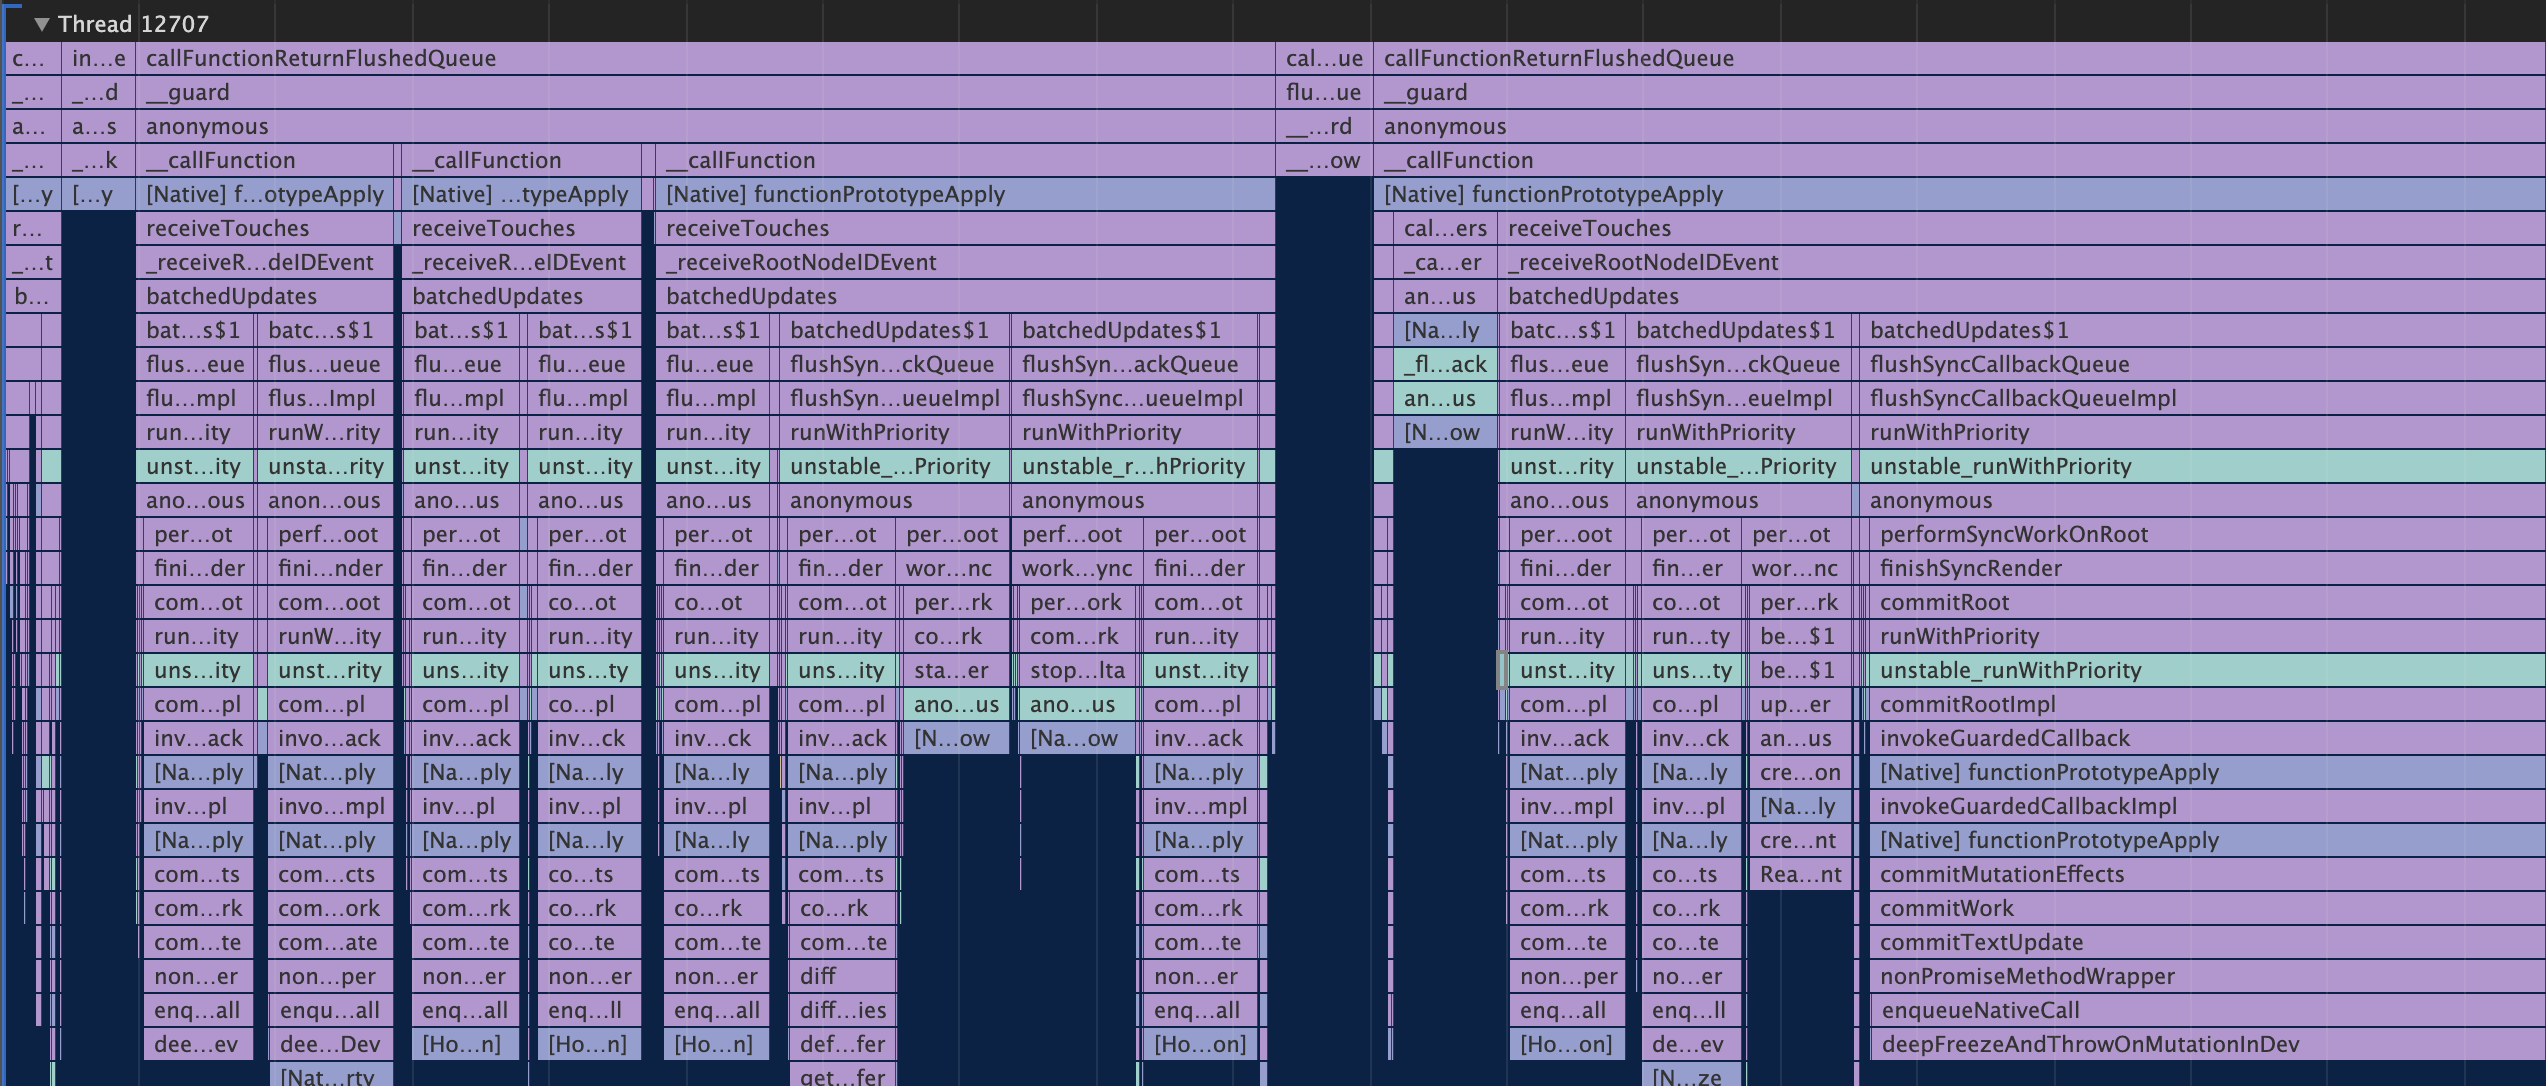
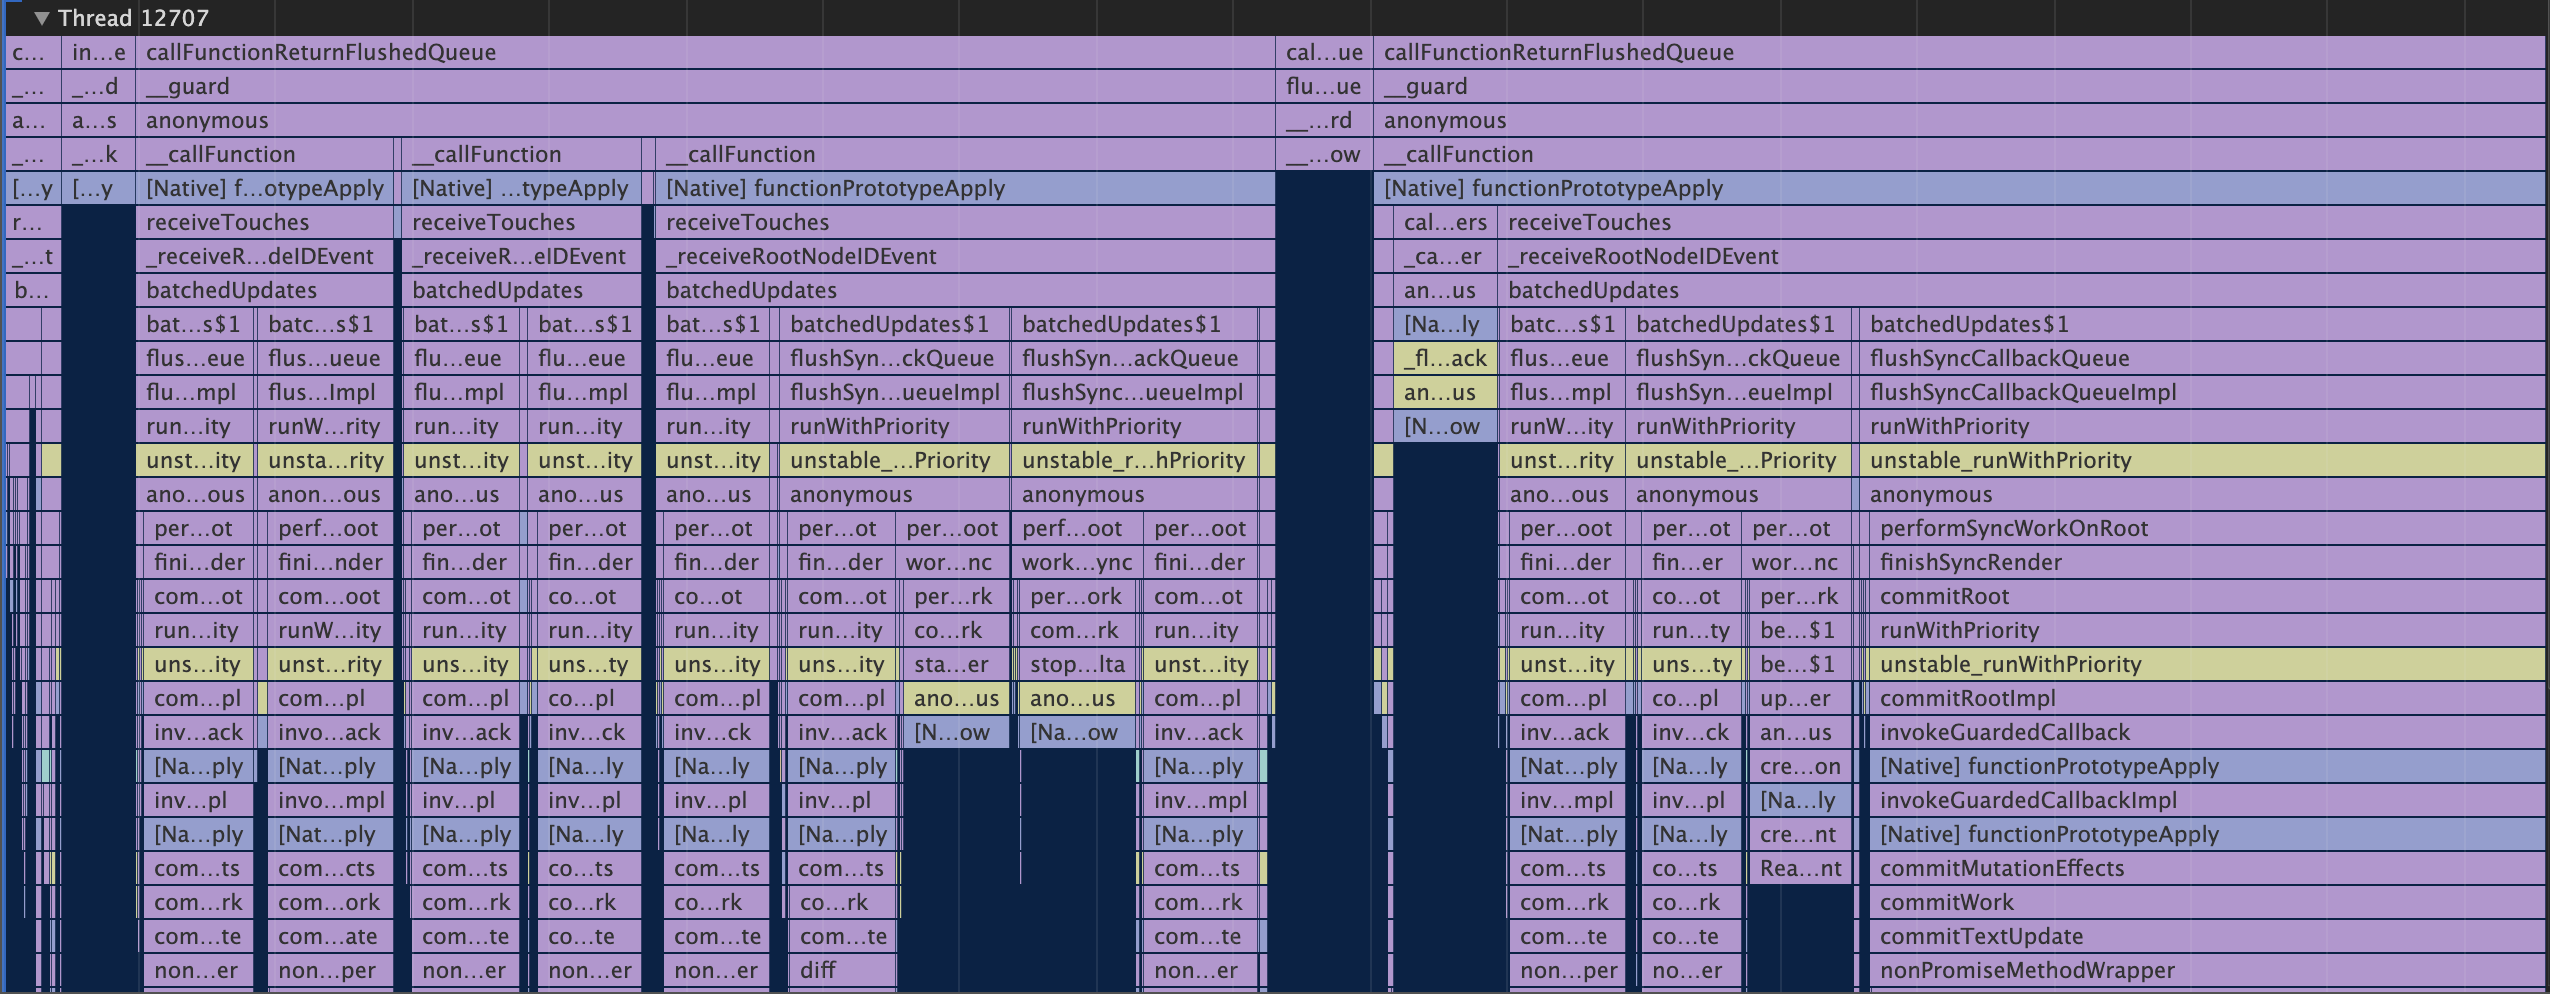
Names of events in category 3 were changed from 'node_modules' to 'other_node_modules'
The change was made because -
1. The UI improved significantly - The category 'node_modules' was mapping to the same colour as the category 'Javascript'. (The colours are determined by Chrome DevTools) and hence it made sense to change these to another name to better distinguish the events on the profile.
2. 'other_node_modules' is more specific too, as the category 'node_modules' is a misrepresentation. (The events assigned 'react-native-internals' are from node_modules too afterall)

diff --git a/src/profiler/applySourceMapsToEvents.ts b/src/profiler/applySourceMapsToEvents.ts
@@ -40,7 +40,7 @@ const improveCategories = (
   if (reactNativeModuleNames.includes(nodeModuleName)) {
     return 'react-native-internals';
   } else {
-    return 'node_modules';
+    return 'other_node_modules';
   }
 };
 
